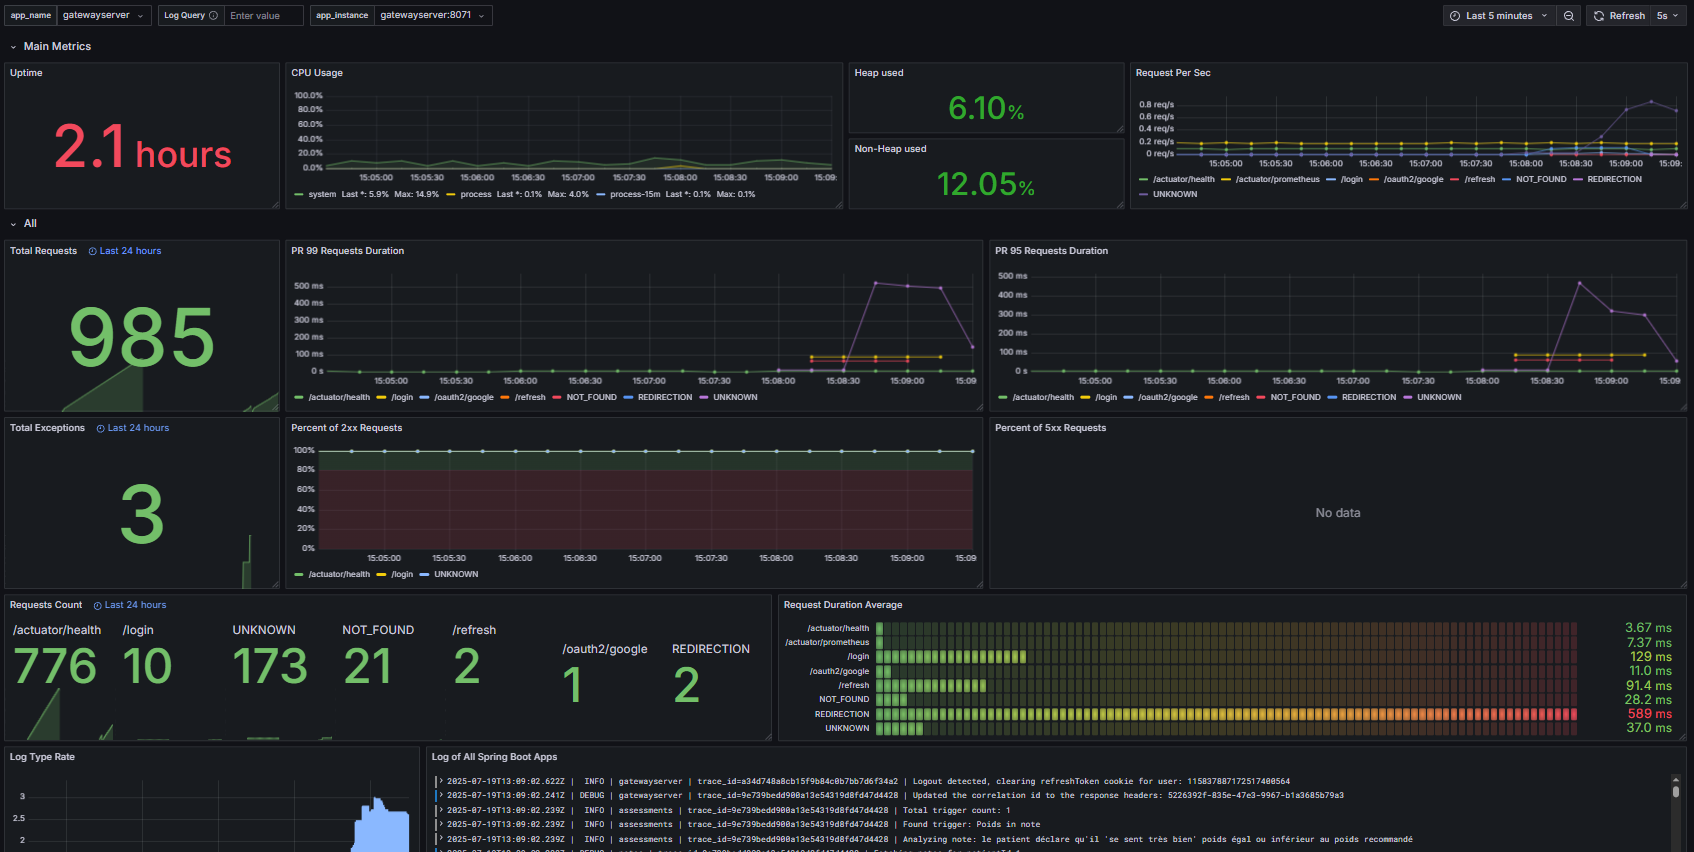
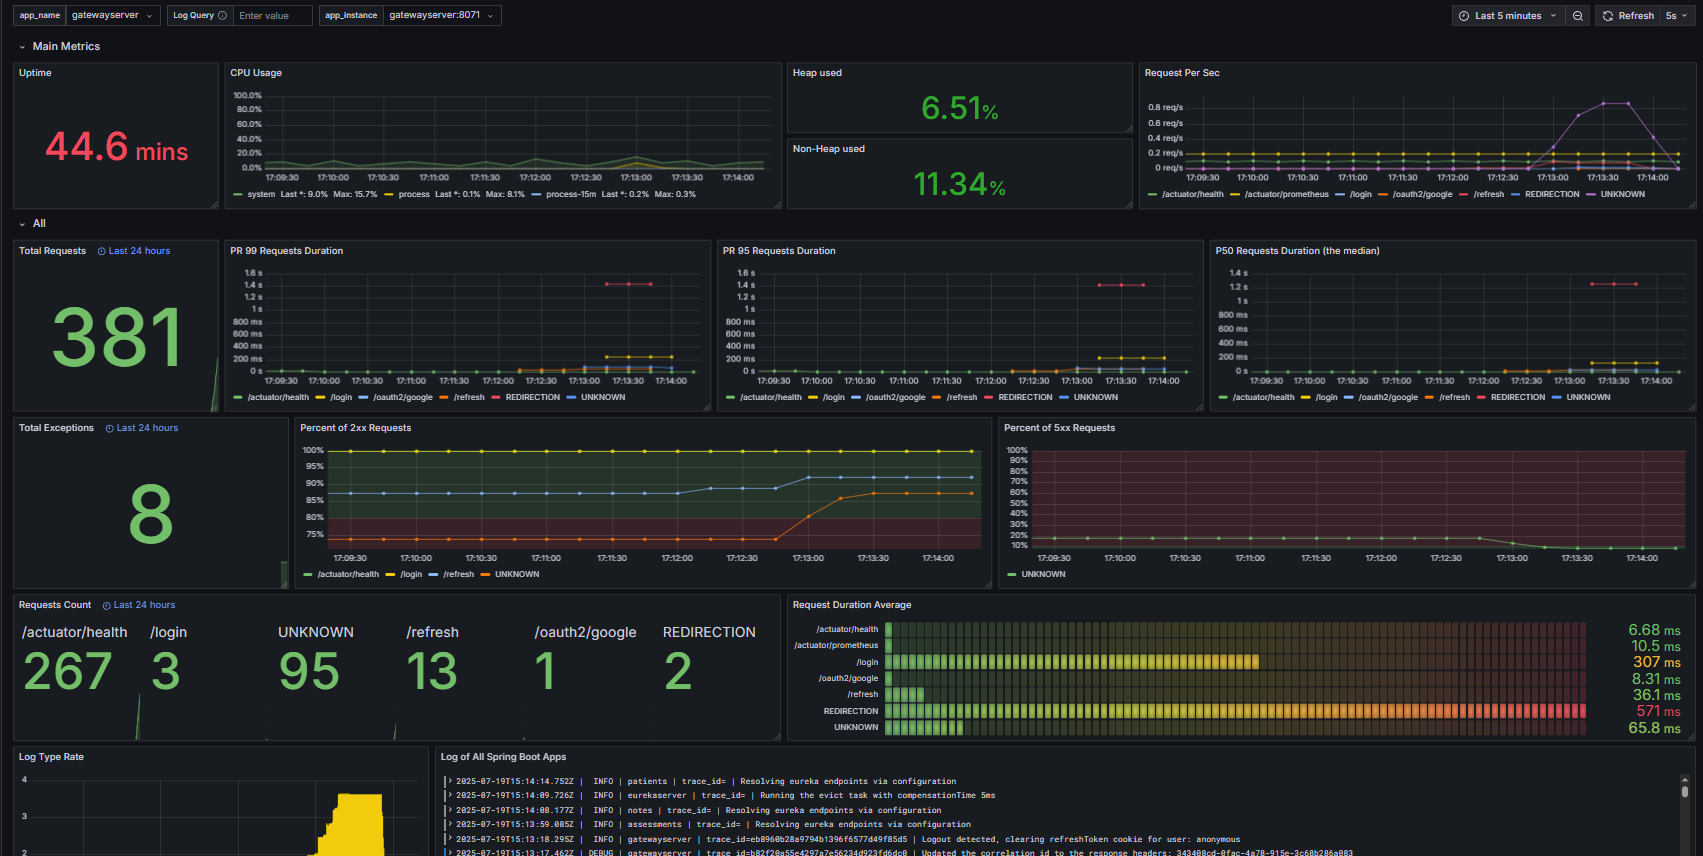
update : README.md (5)

diff --git a/README.md b/README.md
@@ -60,9 +60,19 @@ The system includes comprehensive observability to ensure reliability and simpli
 
 All data is visualized and analyzed through Grafana.
 
-The customized dashboard is based on the two popular dashboards : JVM (Micrometer) & Spring Boot Observability.
+The custom dashboard is based on the two popular dashboards : **JVM (Micrometer) & Spring Boot Observability**.
 
 ![Custom Observability Dashboard](img/dashboard-image.png)
+
+It highlights critical KPIs to ensure system health and performance:
+
+- **Uptime** — indicates system availability and stability over time
+- **CPU Usage (System and Process)** — monitors resource consumption and detects overloads
+- **Memory Usage (Heap and Non-Heap)** — tracks JVM memory usage to identify leaks or pressure
+- **Request Rate (Requests per Second)** — measures traffic volume handled by the service
+- **Request Duration (99th percentile, 95th percentile, 50th percentile)** — captures latency distributions for real user experience insights
+- **Total Requests and Status Codes (2xx, 5xx)** — tracks success and error rates to monitor reliability
+- **Exception Counts** — identifies unexpected failures not caught by HTTP status codes
 
 ---
 
@@ -92,6 +102,8 @@ The full journey test simulates a real doctor's workflow using `DoctorJourneyE2E
 - Validates data flow across all services
 - Uses **Awaitility** to ensure service readiness and propagation
 - Executed in a real environment with **Docker Compose**
+
+#### ✅ Load Tests (in progress)
 
 ---
 
